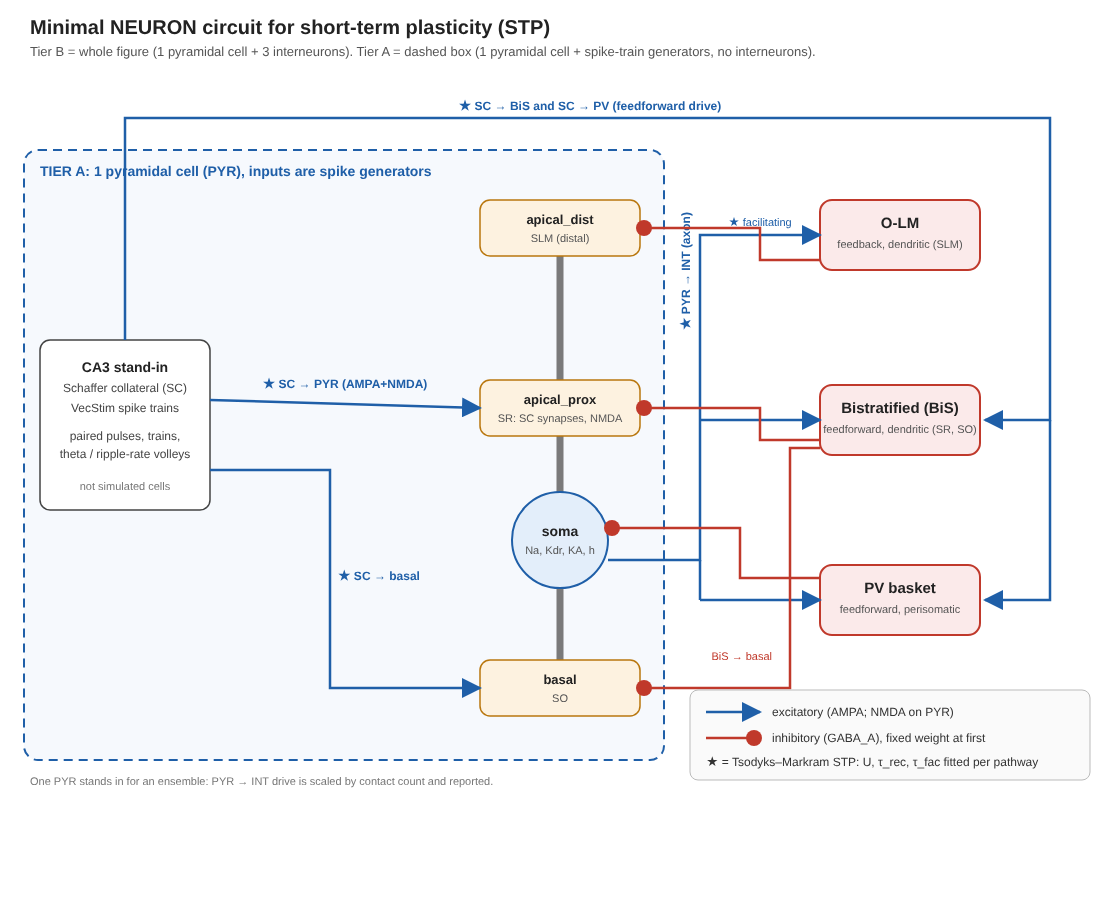
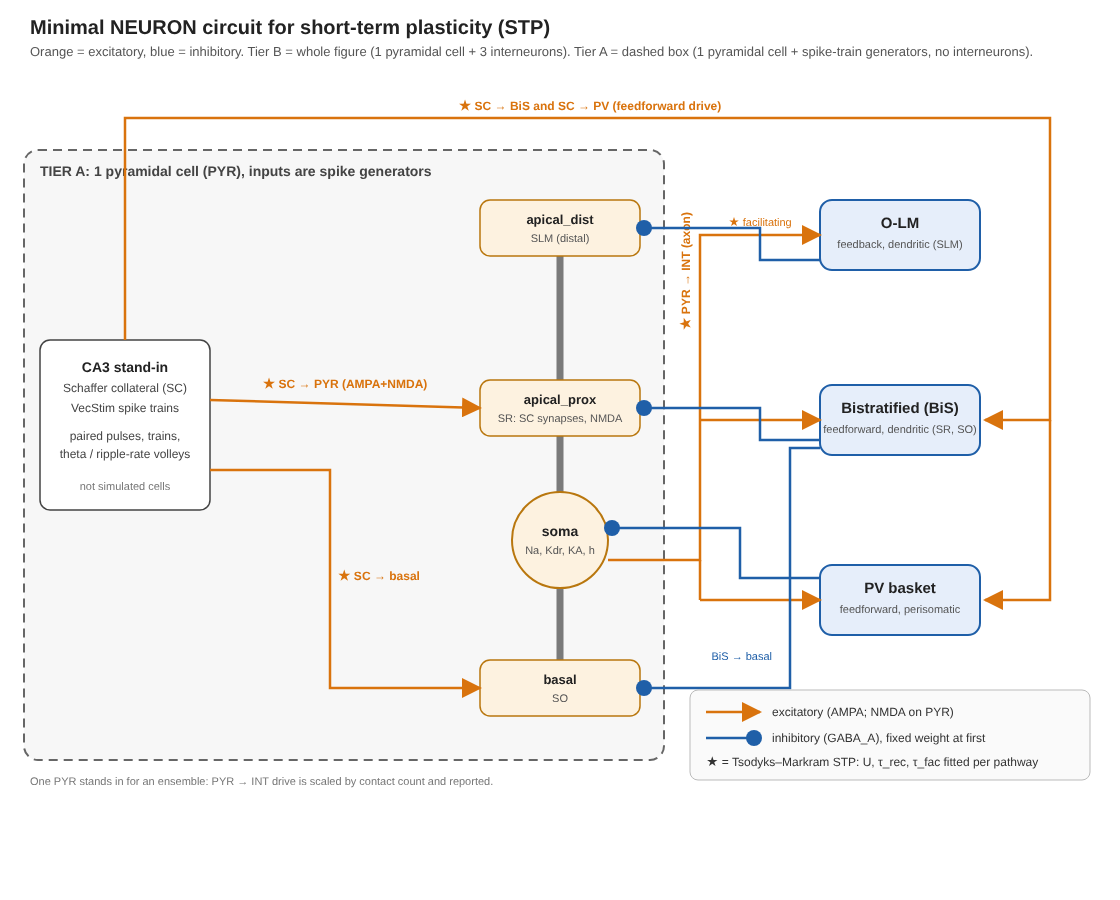
Diagram: excitatory orange, inhibitory blue
Claude-Session: https://claude.ai/code/session_01H4otuPYjGEqsrW9kMFG9uE

diff --git a/plan_neuron_stp_circuit.md b/plan_neuron_stp_circuit.md
@@ -7,7 +7,7 @@ short-term plasticity (STP) as "Missing" in the NEST model.
 
 ![Tier A (dashed) and Tier B (whole figure) circuit](figures/neuron_stp_tier_b.svg)
 
-*Tier A = 1 PYR driven by spike generators. Tier B = Tier A plus PV basket, bistratified and O-LM cells.*
+*Orange = excitatory, blue = inhibitory. Tier A = 1 PYR driven by spike generators. Tier B = Tier A plus PV basket, bistratified and O-LM cells.*
 
 ## 0. Purpose and scope
 
